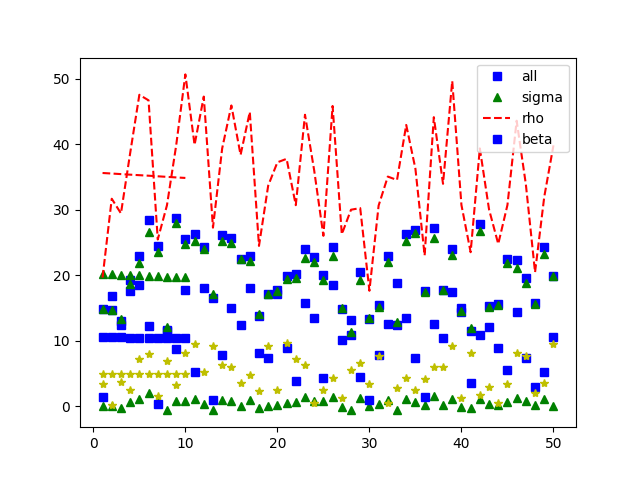
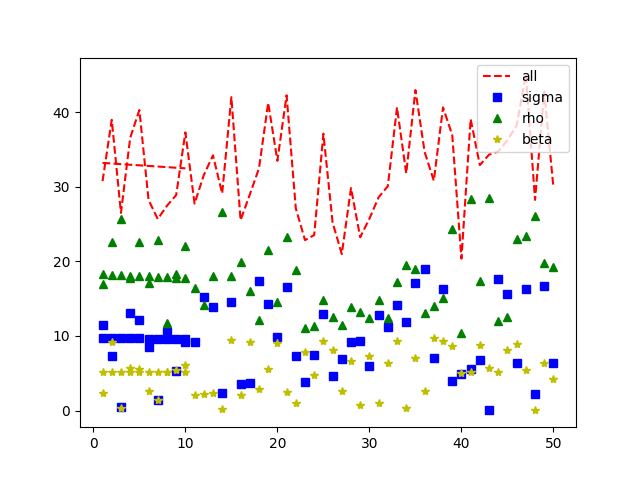
test

diff --git a/lorenz_nn.py b/lorenz_nn.py
@@ -247,14 +247,14 @@ print(rela_error_sigma)
 print(rela_error_rho)
 print(rela_error_beta)
 
-
+"""
 x_axis0 = np.arange(1,total_samples + 1)
 plt.plot(x_axis0, target_rho, 'bs', x_axis0, pred_rho, 'g^')
 label = [ 'target', 'predict']
 plt.legend(label, loc='upper right')
 my_results_file0 = 'rho_last_epoch_par1'
 plt.savefig(os.path.join(my_results_path_abso, my_results_file0))
-
+"""
 x_axis1 = np.arange(1,EPOCH+1)
 print(x_axis1)
 plt.plot(x_axis1, error_all, 'r--', x_axis1, error_sigma, 'bs', x_axis1, error_rho, 'g^', x_axis1, error_beta, 'y*')
